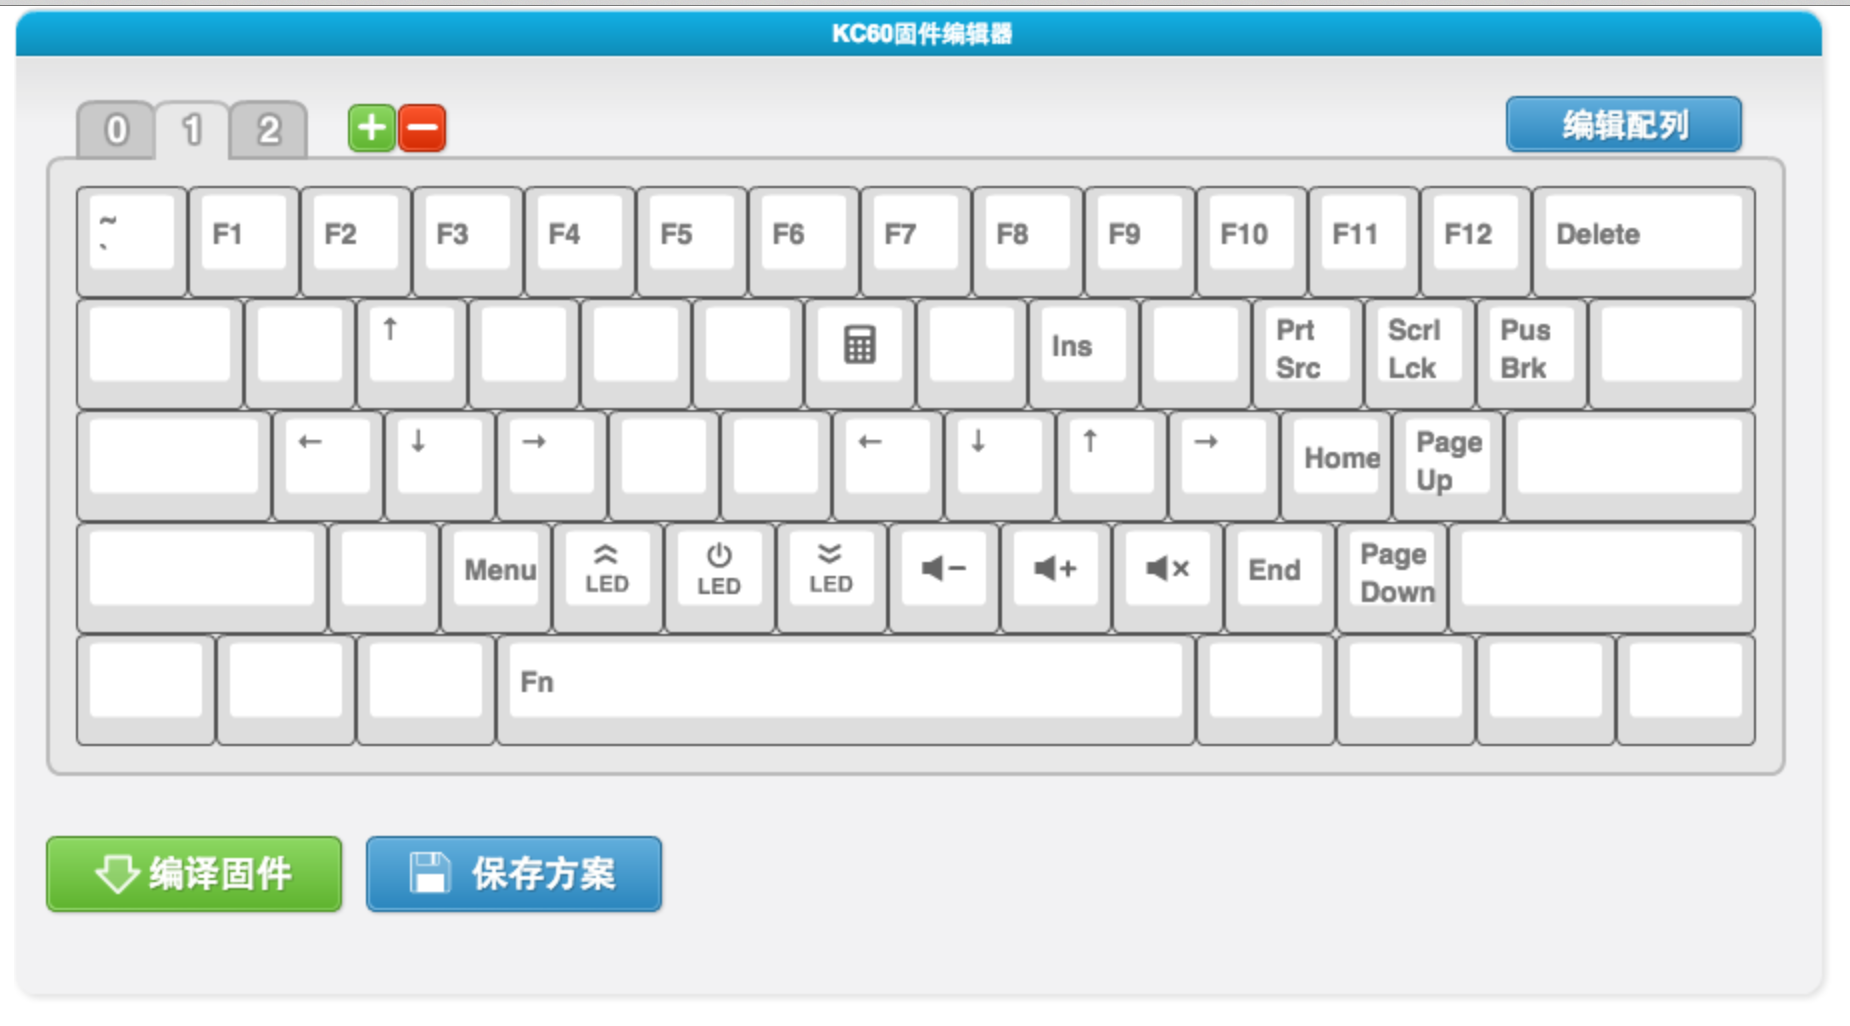
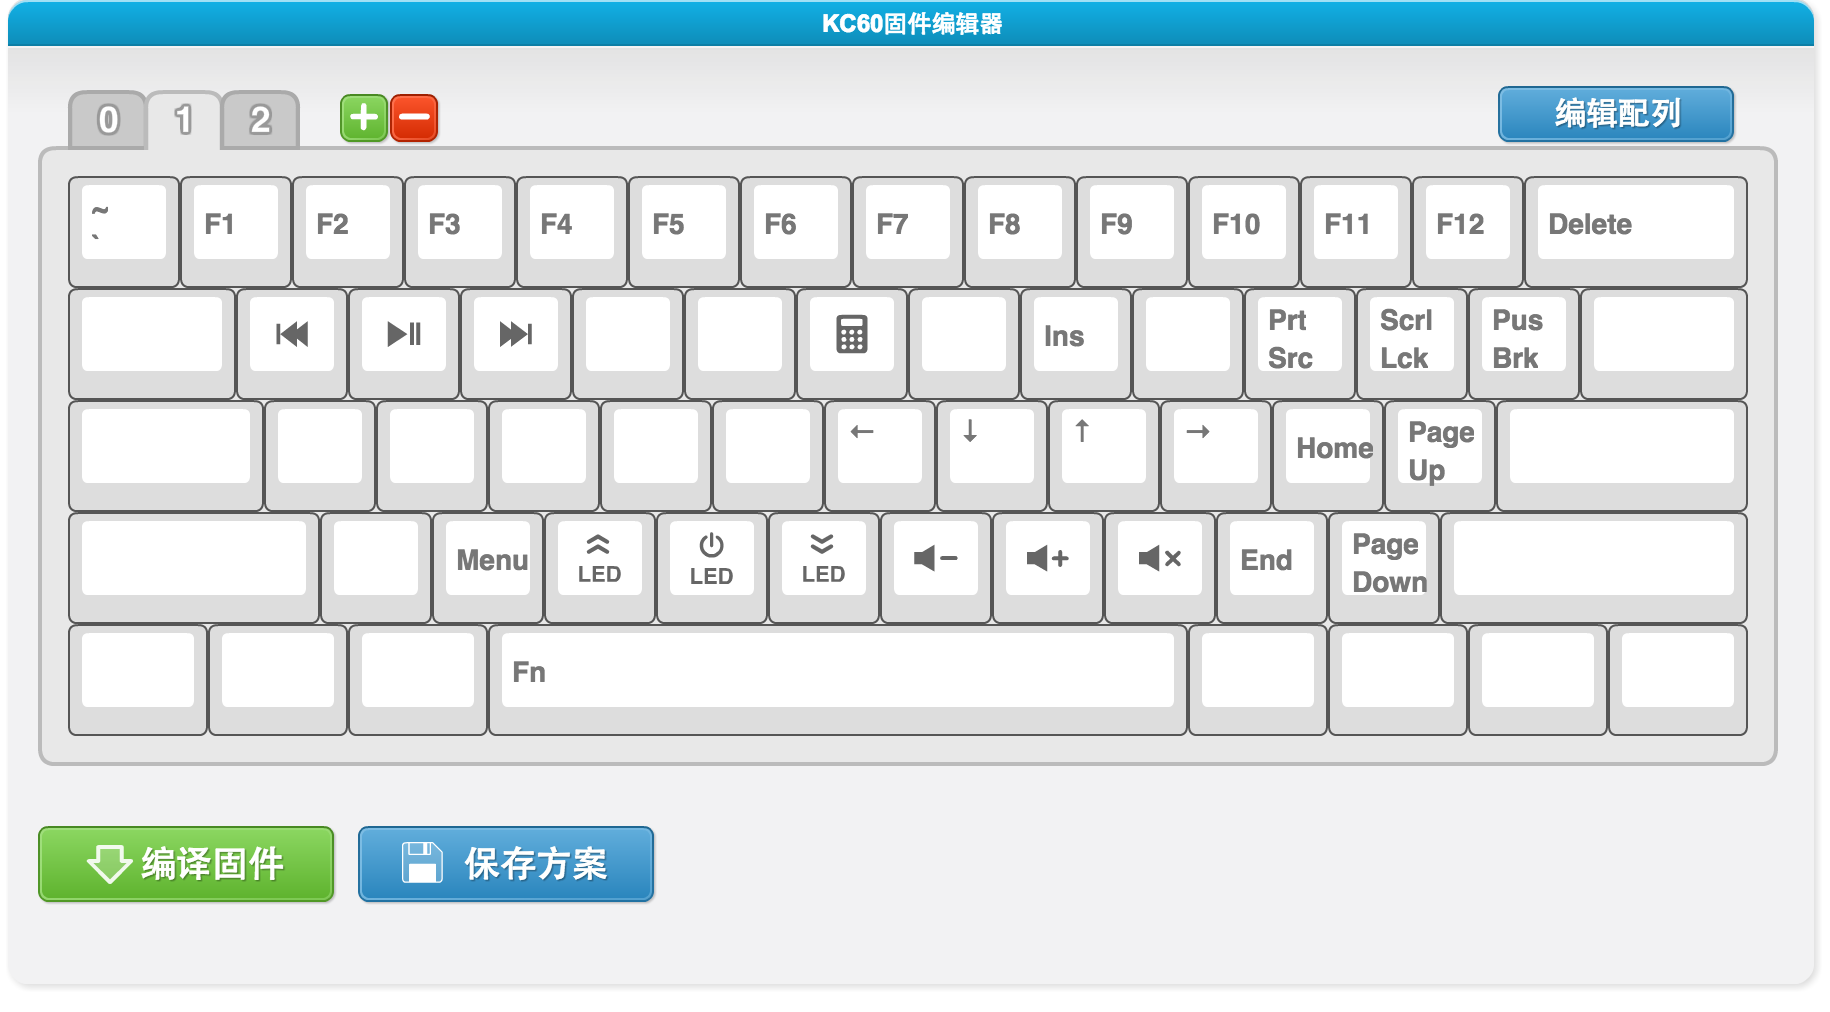
Updated profile with media keys

Changed region(s): [[0.0, 0.0, 1.0, 0.7658], [0.0, 0.7964, 0.3426, 0.919]]

diff --git a/README.md b/README.md
@@ -2,3 +2,5 @@
 
 ##My Custom Profile
 http://123.57.250.164:9128/#035F3719868E5D5D8BF56633930AF952
+
+http://123.57.250.164:9128/#56465F784678481E892FD4B7DC8BA519
